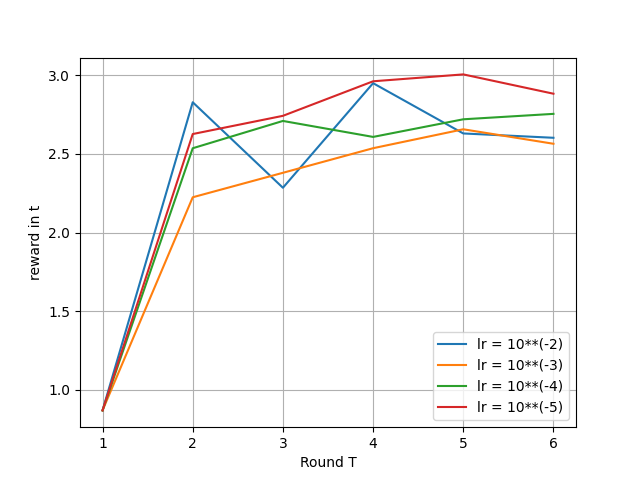
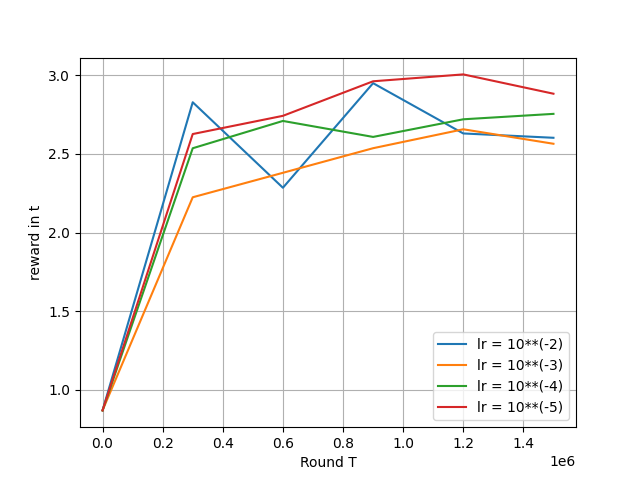
Final tets

diff --git a/project/DQN_Agent/main.py b/project/DQN_Agent/main.py
@@ -1,7 +1,7 @@
 import rlcard 
 import torch
 from rlcard.agents import RandomAgent
-from other_agents import Threshold_Agent
+from other_agents import Threshold_Agent, Tight_Threshold_Agent
 from agent import Agent
 from tqdm import tqdm
 import numpy as np
@@ -21,12 +21,18 @@ if __name__ == '__main__':
     set_seed(seed)
     device = torch.device("cuda" if torch.cuda.is_available() else "cpu") 
     print(f"used device is {device}")
+    #horizon = 1_500_000
     horizon = 1_500_000
     num_eval_games = 2_000 #how many hands will be played in every tournament
-    evaluate_every = 250_000
+    evaluate_every = 100_000
     index = 0
+
+    threshold = True
     per = False
-    threshold = False
+    loose = True
+
+    loose =False if not threshold else loose
+    
     
     agent = Agent(
         input_size= env.state_shape[0][0],
@@ -35,18 +41,19 @@ if __name__ == '__main__':
         num_actions=env.num_actions,
         device=device,
         batch_size=64,
-        buffer_size=20_000 if not per else 100_000,
+        buffer_size=100_000,
         gamma = .99,
-        lr = 10**(-5), #god lr is .00003
+        lr = 10**(-5), #good lr is .00003
         decrease= int(1.7*0.4*horizon), #exploration in the 40% of the horizon. # because the agent's step is called almost 4 times ine evry game
         goal = .1,
-        update_every= 1000,
         per = per
     )
 
     agents=[agent]
     for _ in range(1, env.num_players):
-        agents.append(Threshold_Agent() if threshold else RandomAgent(num_actions=env.num_actions))
+        if threshold:
+            opp = Threshold_Agent() if loose else Tight_Threshold_Agent()
+        agents.append(opp if threshold else RandomAgent(num_actions=env.num_actions))
     env.set_agents(agents)
 
     rewards = np.zeros(int(horizon/evaluate_every))
@@ -65,14 +72,14 @@ if __name__ == '__main__':
             index+=1
 
     print(f"the buffer size at the end is {len(agent.replay_buffer)}")
-    file_path = f"./DQN_Agent/data/dropping_lr/"
+    file_path = f"./DQN_Agent/data/final/"
     if not os.path.exists(file_path):
     # If it doesn't exist, create the directory
         os.makedirs(file_path)
         print(f"Directory '{file_path}' has been created.")
     else:
         print(f"Directory '{file_path}' already exists.")
-    np.save(file_path+f"threshold_{threshold}_per_{per}_0001_drop.npy", rewards, allow_pickle=True)
+    np.save(file_path+f"threshold_{threshold}_per_{per}_loose_{loose}.npy", rewards, allow_pickle=True)
 
 
     plt.figure(1)
@@ -82,5 +89,5 @@ if __name__ == '__main__':
     plt.plot(np.linspace(0, horizon, int(horizon/evaluate_every)),rewards, label="Average reward per episode")   
     plt.grid()
     plt.legend()
-    plt.savefig(f"./DQN_Agent/images/threshold_{threshold}_per_{per}")
+    plt.savefig(f"./DQN_Agent/images/threshold_{threshold}_per_{per}_loose_{loose}")
     plt.show()

diff --git a/project/DQN_Agent/other_agents.py b/project/DQN_Agent/other_agents.py
@@ -36,7 +36,9 @@ def get_action(legal_moves, desired_move):
         next_move = action_hierarchy_list[(index+i+1)%len(action_hierarchy_list)]
         if next_move in legal_moves: return action_hierarchy.get(next_move, 2)
     return 2
+
 class Threshold_Agent():
+    #aka the offensive/loose agent
     def __init__(self):
         self.use_raw = False #just for the env, False because the agent is not a human
         self.pair = False
@@ -97,13 +99,43 @@ class Threshold_Agent():
         if match or self.pair: return get_action(legal_moves = legal_actions, desired_move="raise")
         return get_action(legal_moves = legal_actions, desired_move="call")
     
+
+class Tight_Threshold_Agent(Threshold_Agent):
+    
+    def play_preflop(self, state,hand):
+        """ 
+        check if agent has strong preflop hand.
+        ARGUMENTS: the ranks of the hand, state as the environment returns
+        """
+        pair = hand[0] == hand[1]
+        self.pair = pair
+        value = cards.get(hand[0], 0) + cards.get(hand[1], 0)
+        legal_actions = state["raw_legal_actions"]
+        if pair or value >= 3:
+            return get_action(legal_moves=legal_actions, desired_move = "call")
+        return get_action(legal_moves=legal_actions, desired_move = "check")
+
+
+    def play_preflop(self, state,hand):
+        """ 
+        check if agent has strong preflop hand.
+        ARGUMENTS: the ranks of the hand, state as the environment returns
+        """
+        pair = hand[0] == hand[1]
+        self.pair = pair
+        value = cards.get(hand[0], 0) + cards.get(hand[1], 0)
+        legal_actions = state["raw_legal_actions"]
+        if pair or value >= 3:
+            return get_action(legal_moves=legal_actions, desired_move = "call")
+        return get_action(legal_moves=legal_actions, desired_move = "fold")
+
 if __name__ == "__main__":
     state = {
         "raw_legal_actions": ['raise','call','check'] 
     }
     hand = ['5', 'A']
     table = ['K', '7', '8']
-    a = Threshold_Agent()
+    a = Tight_Threshold_Agent()
     a.pair = hand[0] == hand[1]
-    ret = a.play_post_flop(state = state, hand = hand, table = table)
+    ret = a.eval_step(state = state, hand = hand, table = table)
     print(ret)

diff --git a/project/DQN_Agent/plot.py b/project/DQN_Agent/plot.py
@@ -1,27 +1,27 @@
 import numpy as np
 import matplotlib.pyplot as plt
 
-horizon = int(1_500_000/250_000)
+horizon = 1_500_000
+evaluate_every = 100_000
 
 
+file_path = "DQN_Agent/data/final/threshold_False_per_True.npy"
+with_per = np.load(file_path, allow_pickle=True)
 
-#file_path = "DQN_Agent/data/lr_experiments/threshold_False_per_False_001.npy"
-#agent_001 = np.load(file_path, allow_pickle=True)
+file_path = "DQN_Agent/data/final/threshold_False_per_False.npy"
+without_per = np.load(file_path, allow_pickle=True)
 
-file_path = "DQN_Agent/data/lr_experiments/threshold_False_per_False_00001.npy"
-dropout = np.load(file_path, allow_pickle=True)
-
-file_path = "DQN_Agent/data/threshold_False_per_False_no_dropout.npy"
-no_drop = np.load(file_path, allow_pickle=True)
 
 
 plt.figure(1)
 plt.xlabel("Round T") 
-plt.ylabel("reward in t") 
-plt.plot(np.arange(1,horizon+1),dropout, label="With dropout")
-plt.plot(np.arange(1,horizon+1),no_drop, label="Without dropout")
+plt.ylabel("reward in t")
+plt.plot(np.linspace(0, horizon, int(horizon/evaluate_every)),with_per, label="Using per") 
+plt.plot(np.linspace(0, horizon, int(horizon/evaluate_every)),without_per, label="Without per")
+
+
 plt.grid()
 plt.legend()
-plt.savefig("./DQN_Agent/images/report/dropout_reduction") # I would have to save fig in order to store it. That is working without depending on .show
+plt.savefig("./DQN_Agent/images/report/against_random") # I would have to save fig in order to store it. That is working without depending on .show
 plt.show()
 print("end")

diff --git a/project/DQN_Agent/agent.py b/project/DQN_Agent/agent.py
@@ -20,7 +20,6 @@ class Agent():
                     lr = .001,
                     decrease = .99,
                     goal = .02,
-                    update_every = 10,
                     per = False,
                     a = 0,
                     b = 0
@@ -54,7 +53,6 @@ class Agent():
         self.criterion = nn.MSELoss(reduction='mean')
         self.optimizer = optim.Adam(self.model.parameters(), lr=self.lr)
         self.use_raw = False #just for the env, False because the agent is not a human
-        self.update_every = update_every
         self.counter = 0
         self.TAU = .005
         #epsilon greedy part
